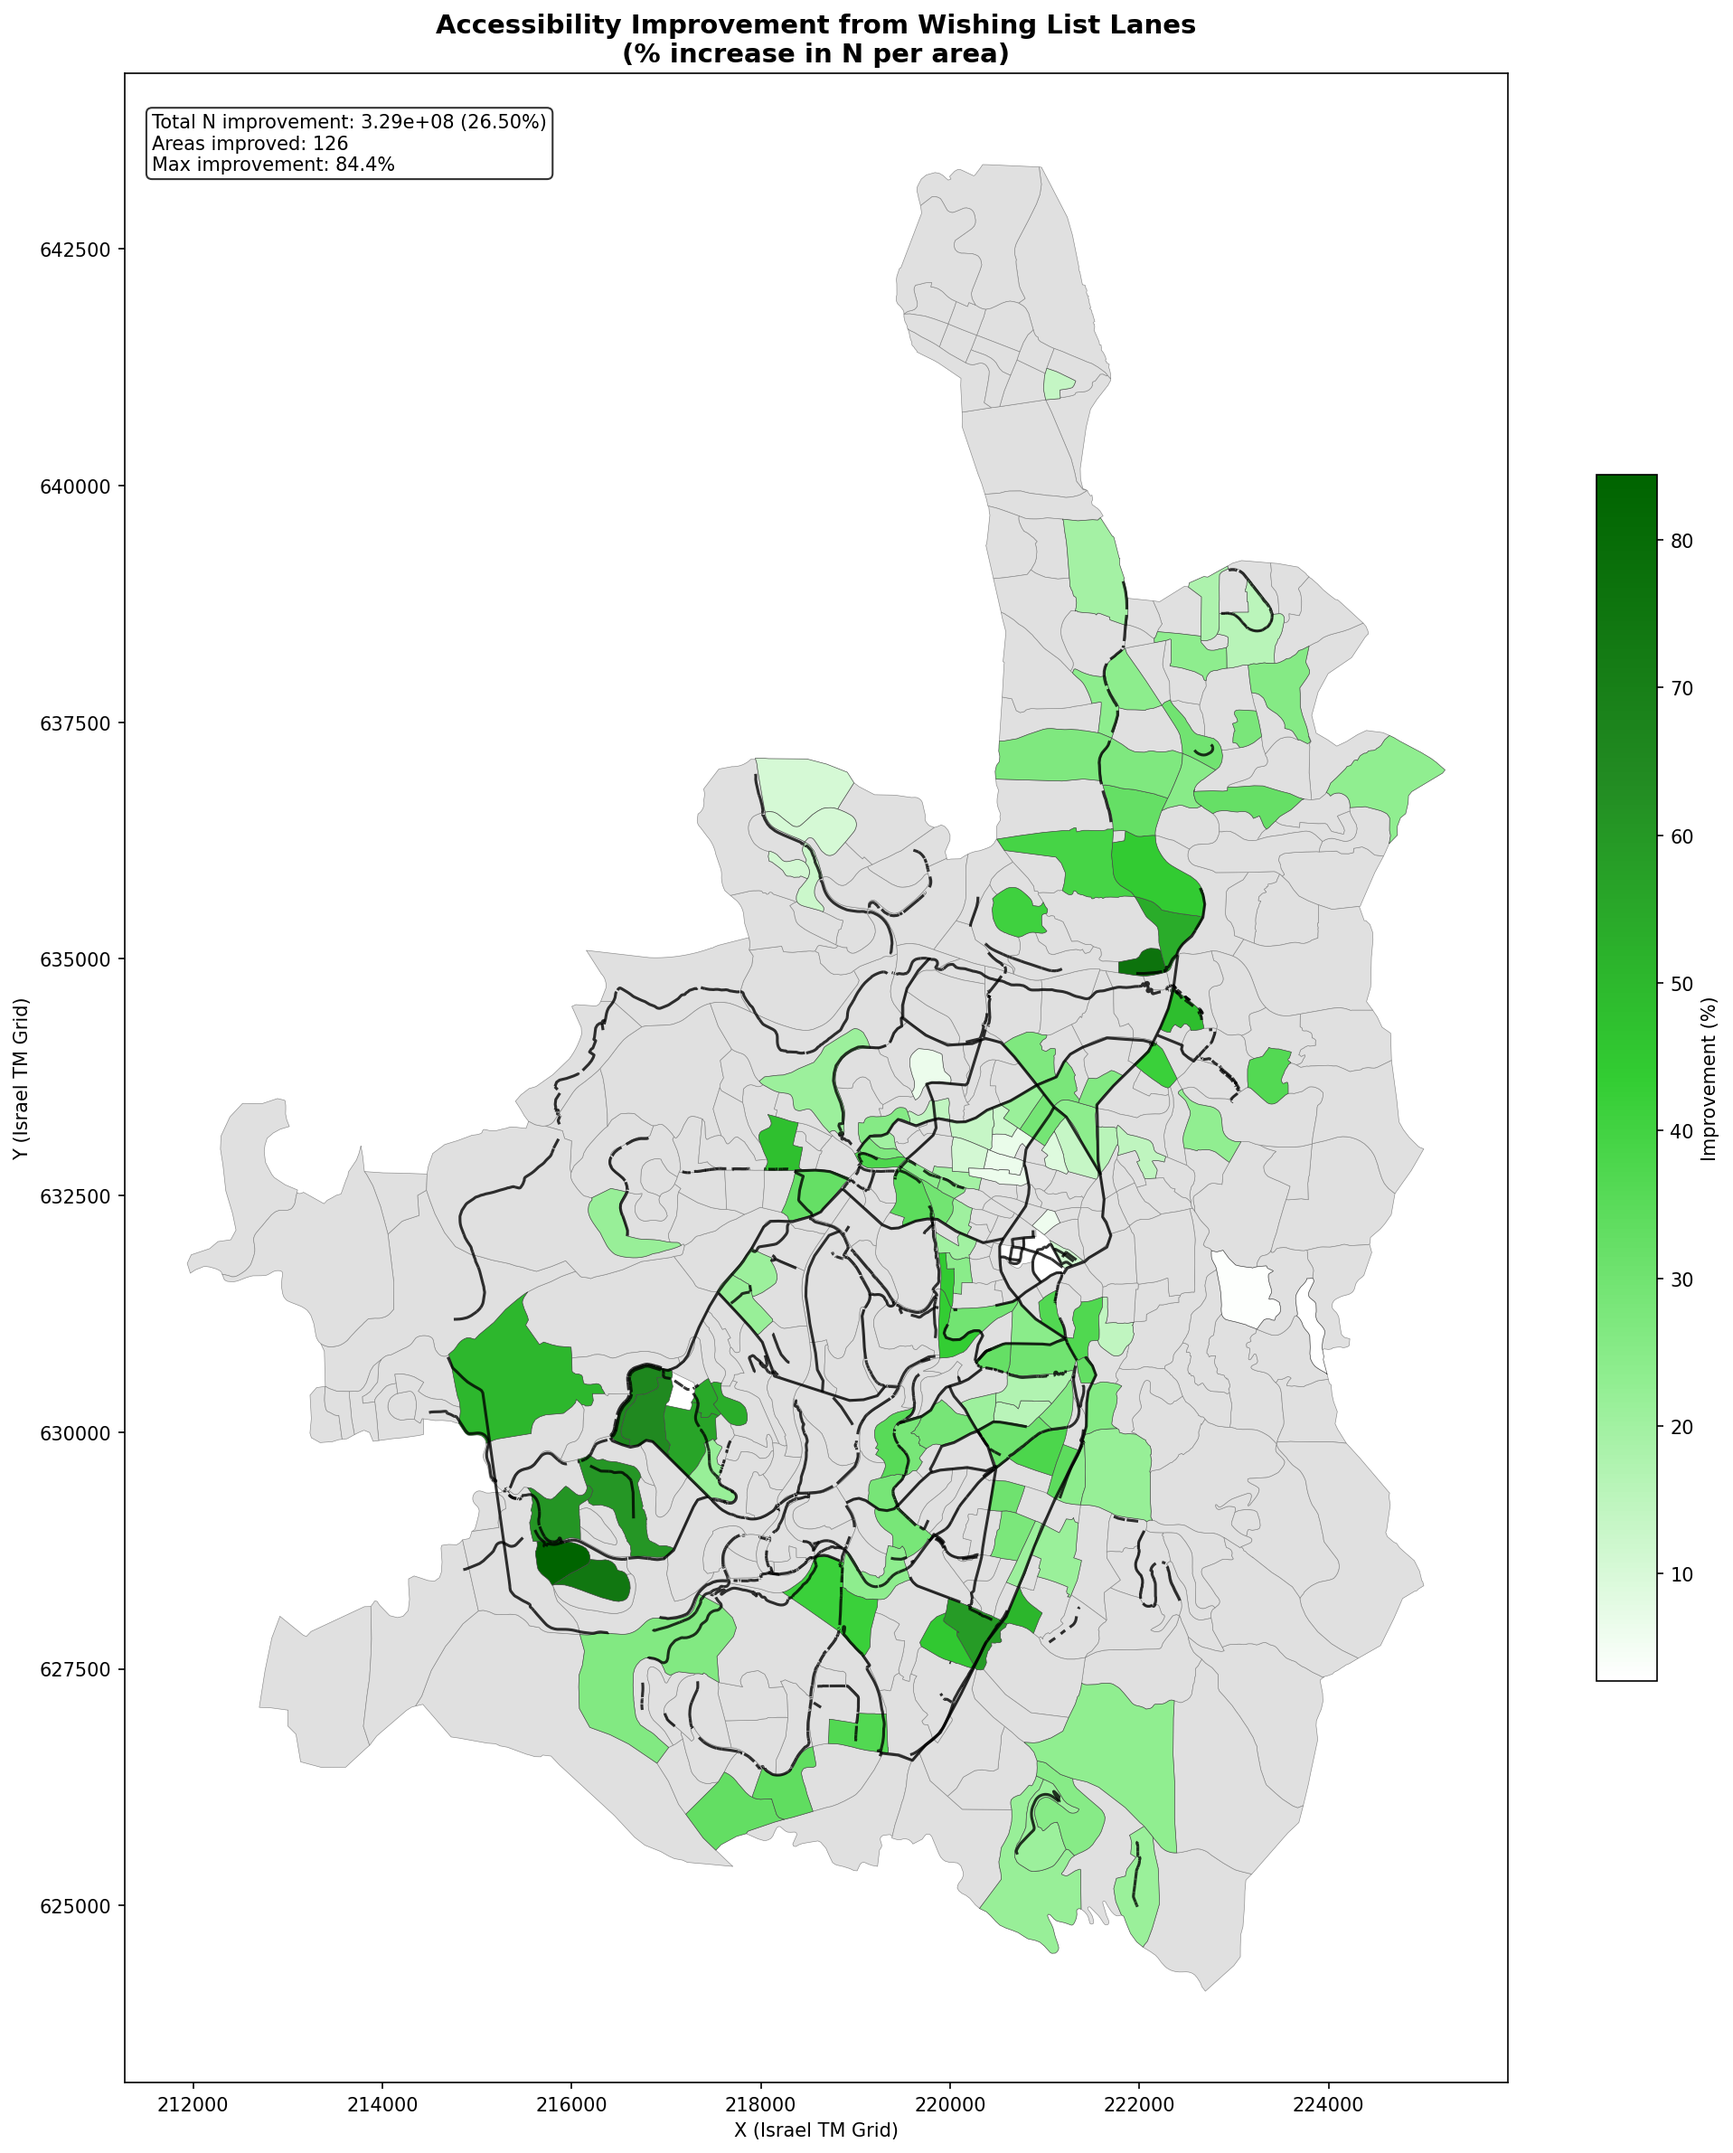
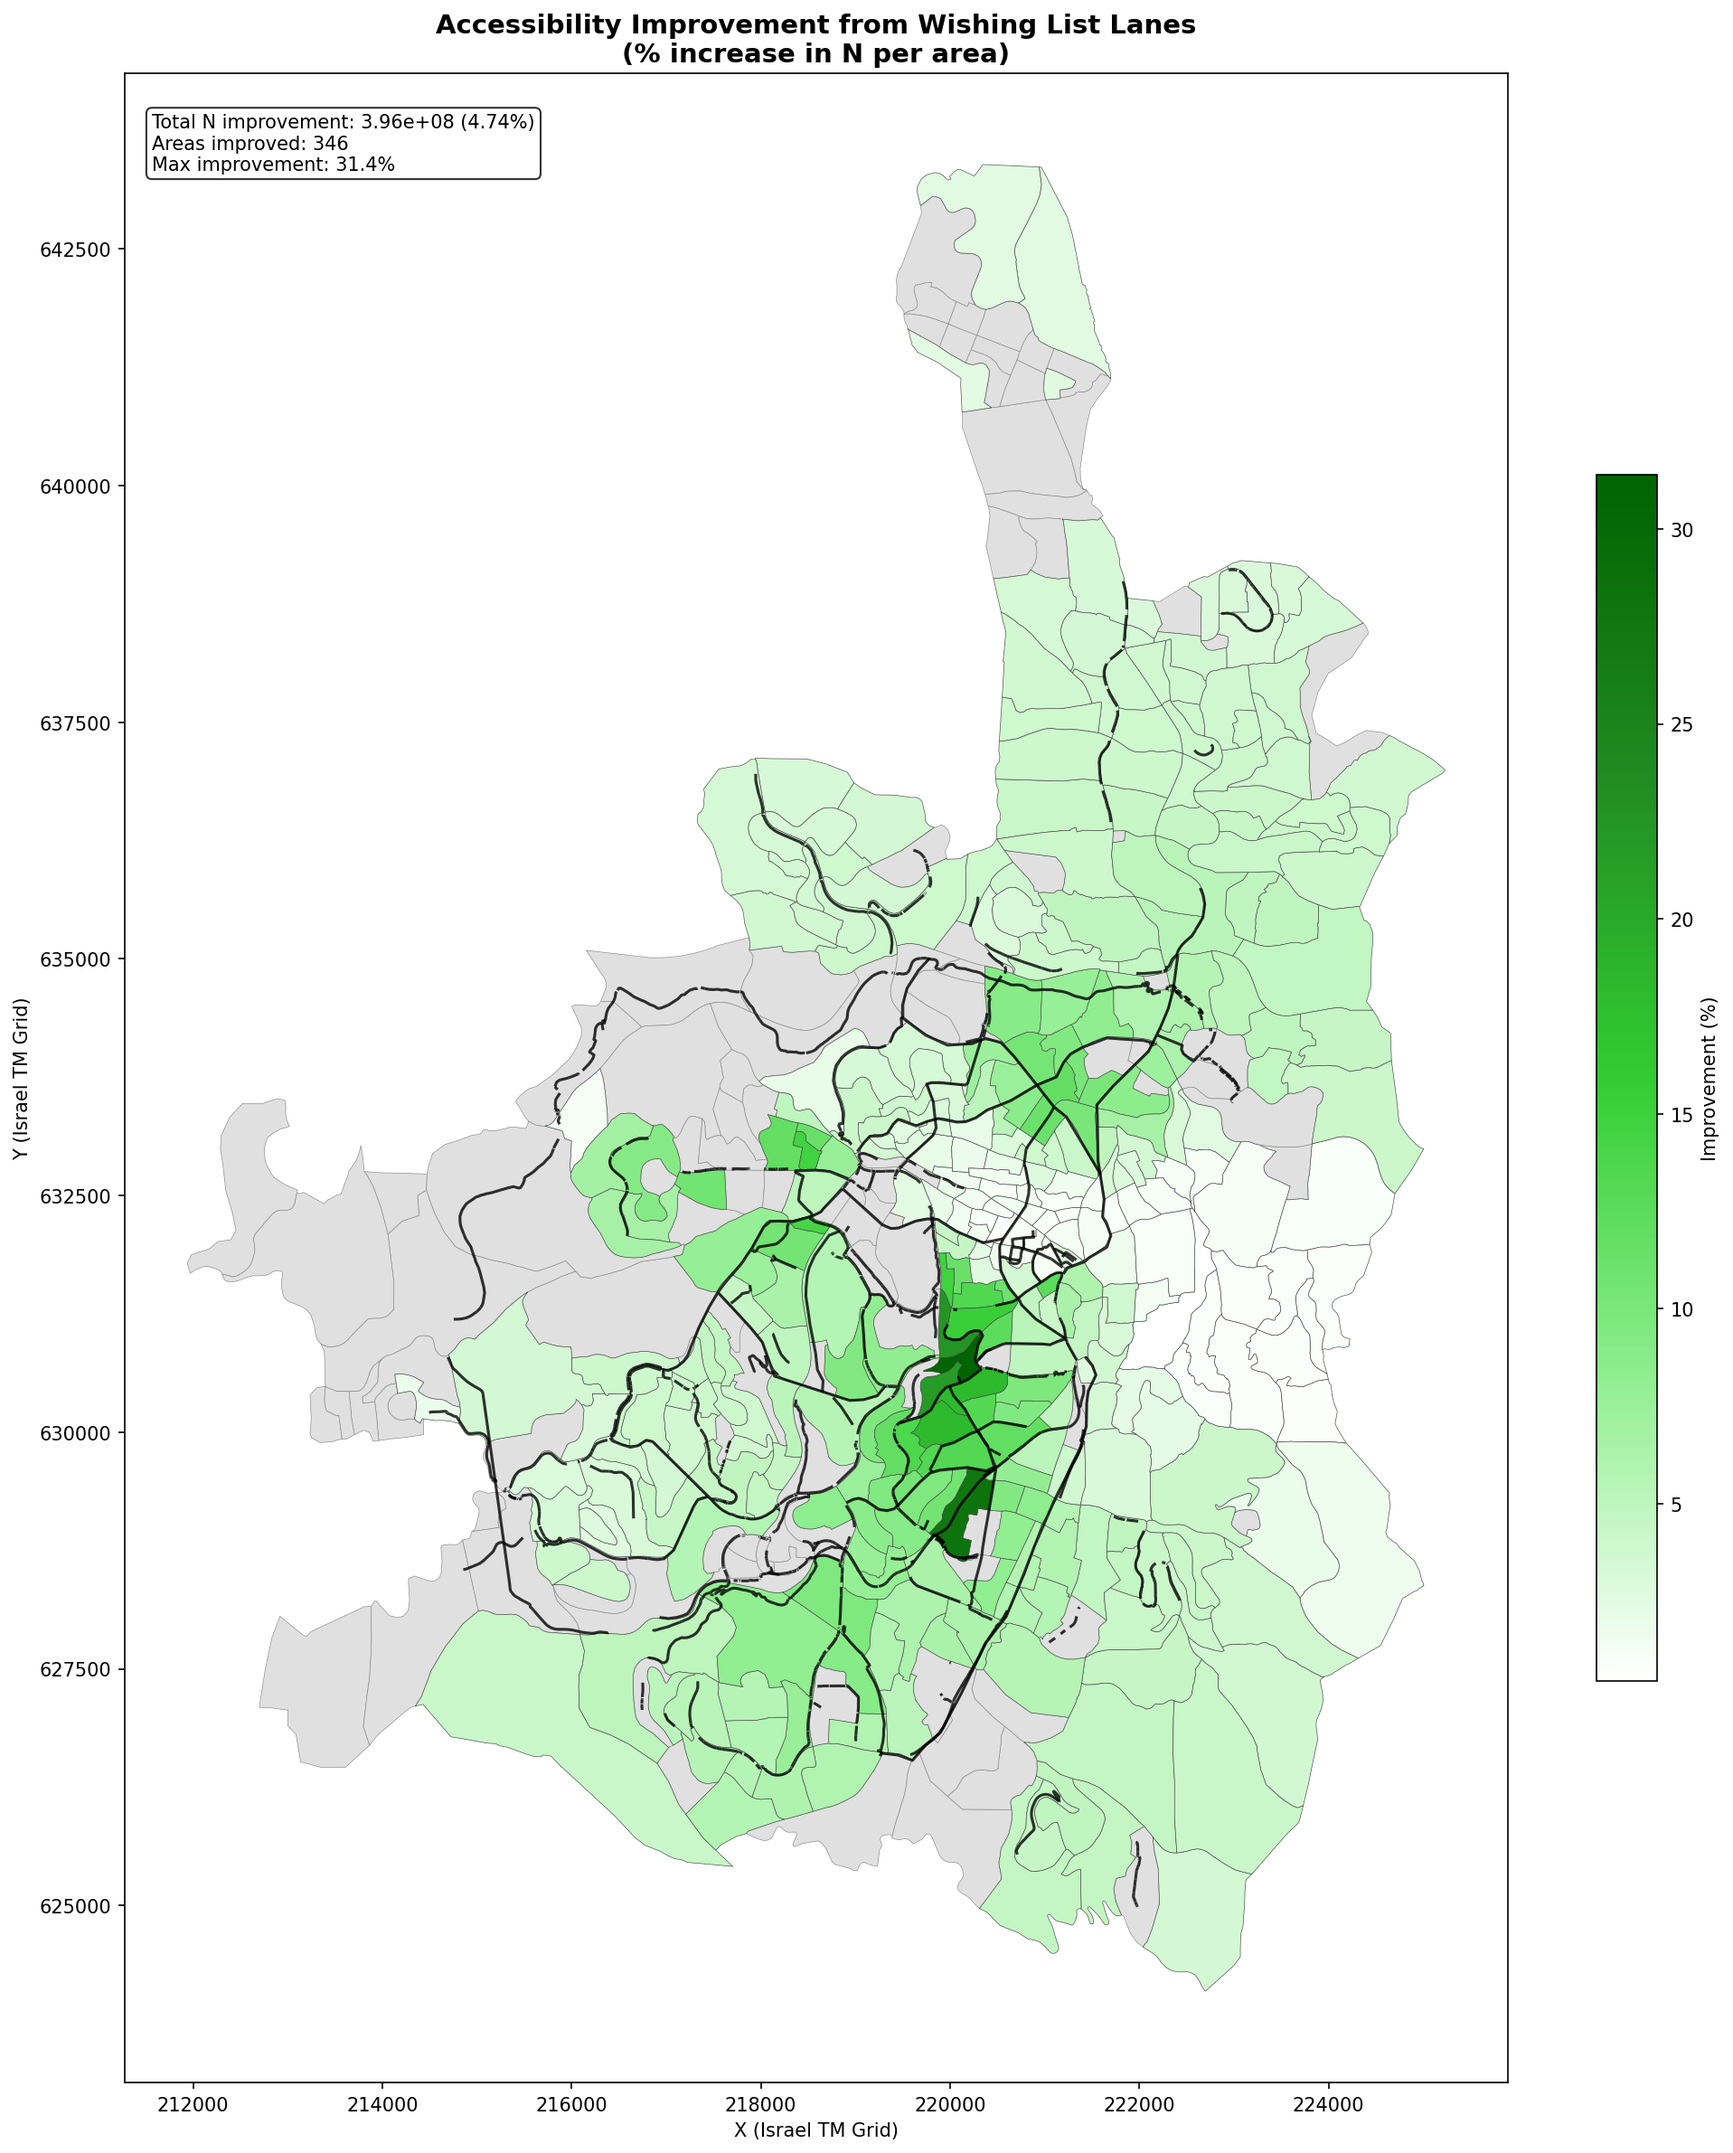
Fix network node clustering - now 434 areas connected
- Fixed grid-based node clustering (was creating fragmented network)
- Without wishing list: N = 8.36e+09 (434 connected)
- With wishing list: N = 8.75e+09 (434 connected)
- Improvement: 3.96e+08 (4.74%)

diff --git a/accessibility_heatmaps.py b/accessibility_heatmaps.py
@@ -92,77 +92,23 @@ def build_network(roads_gdf, bike_lanes_list, tolerance=15):
     print("Building network graph...")
 
     G = nx.Graph()
-    all_coords = []
-
-    # Collect all coordinates from roads
-    for idx, row in roads_gdf.iterrows():
-        geom = row.geometry
-        if geom is None or geom.is_empty:
-            continue
-        lines = [geom] if geom.geom_type == 'LineString' else list(geom.geoms) if hasattr(geom, 'geoms') else []
-        for line in lines:
-            coords = list(line.coords)
-            for c in coords:
-                all_coords.append((c[0], c[1]))
-
-    # Collect coordinates from bike lanes
-    for bl_gdf in bike_lanes_list:
-        if bl_gdf is None:
-            continue
-        bl_proj = bl_gdf.to_crs(TARGET_CRS)
-        for idx, row in bl_proj.iterrows():
-            geom = row.geometry
-            if geom is None or geom.is_empty:
-                continue
-            lines = [geom] if geom.geom_type == 'LineString' else list(geom.geoms) if hasattr(geom, 'geoms') else []
-            for line in lines:
-                coords = list(line.coords)
-                for c in coords:
-                    all_coords.append((c[0], c[1]))
-
-    if not all_coords:
-        return G, {}, None, []
-
-    # Cluster nodes
-    all_coords = np.array(all_coords)
-    tree = cKDTree(all_coords)
-
-    node_coords = {}
     coord_to_node = {}
-    node_counter = 0
+    node_coords = {}
+    node_counter = [0]
 
-    for i, coord in enumerate(all_coords):
-        coord_key = (round(coord[0], 1), round(coord[1], 1))
-        if coord_key in coord_to_node:
-            continue
-
-        # Find nearby points
-        nearby = tree.query_ball_point(coord, tolerance)
-
-        # Check if any nearby point already has a node
-        found_node = None
-        for j in nearby:
-            nearby_key = (round(all_coords[j][0], 1), round(all_coords[j][1], 1))
-            if nearby_key in coord_to_node:
-                found_node = coord_to_node[nearby_key]
-                break
-
-        if found_node is not None:
-            coord_to_node[coord_key] = found_node
-        else:
-            node_coords[node_counter] = (coord[0], coord[1])
-            coord_to_node[coord_key] = node_counter
-            G.add_node(node_counter, x=coord[0], y=coord[1])
-            node_counter += 1
-
-    def get_node(x, y):
-        coord_key = (round(x, 1), round(y, 1))
-        if coord_key in coord_to_node:
-            return coord_to_node[coord_key]
-        # Find nearest
-        dist, idx = tree.query([x, y])
-        nearest_key = (round(all_coords[idx][0], 1), round(all_coords[idx][1], 1))
-        return coord_to_node.get(nearest_key, None)
+    def get_or_create_node(x, y):
+        """Get existing node or create new one using grid-based clustering."""
+        # Round to tolerance grid
+        key = (round(x / tolerance) * tolerance, round(y / tolerance) * tolerance)
+        if key in coord_to_node:
+            return coord_to_node[key]
+        # Create new node
+        nid = node_counter[0]
+        node_counter[0] += 1
+        coord_to_node[key] = nid
+        node_coords[nid] = (x, y)
+        G.add_node(nid, x=x, y=y)
+        return nid
 
     # Add road edges
     for idx, row in roads_gdf.iterrows():
@@ -174,14 +120,14 @@ def build_network(roads_gdf, bike_lanes_list, tolerance=15):
             coords = list(line.coords)
             if len(coords) < 2:
                 continue
-            start = get_node(coords[0][0], coords[0][1])
-            end = get_node(coords[-1][0], coords[-1][1])
-            if start is not None and end is not None and start != end:
+            start = get_or_create_node(coords[0][0], coords[0][1])
+            end = get_or_create_node(coords[-1][0], coords[-1][1])
+            if start != end:
                 length = line.length
                 if not G.has_edge(start, end) or G[start][end]['length'] > length:
                     G.add_edge(start, end, length=length, has_bike_lane=False)
 
-    # Mark bike lane edges
+    # Add bike lane edges and mark existing edges
     for bl_gdf in bike_lanes_list:
         if bl_gdf is None:
             continue
@@ -195,9 +141,9 @@ def build_network(roads_gdf, bike_lanes_list, tolerance=15):
                 coords = list(line.coords)
                 if len(coords) < 2:
                     continue
-                start = get_node(coords[0][0], coords[0][1])
-                end = get_node(coords[-1][0], coords[-1][1])
-                if start is not None and end is not None and start != end:
+                start = get_or_create_node(coords[0][0], coords[0][1])
+                end = get_or_create_node(coords[-1][0], coords[-1][1])
+                if start != end:
                     length = line.length
                     if G.has_edge(start, end):
                         G[start][end]['has_bike_lane'] = True
@@ -209,7 +155,11 @@ def build_network(roads_gdf, bike_lanes_list, tolerance=15):
     coords_array = np.array([node_coords[n] for n in node_ids])
     node_tree = cKDTree(coords_array)
 
+    # Check connectivity
+    components = list(nx.connected_components(G))
+    largest_cc = max(components, key=len)
     print(f"  Nodes: {G.number_of_nodes()}, Edges: {G.number_of_edges()}")
+    print(f"  Connected components: {len(components)}, largest: {len(largest_cc)} nodes")
 
     return G, node_coords, node_tree, node_ids
 
